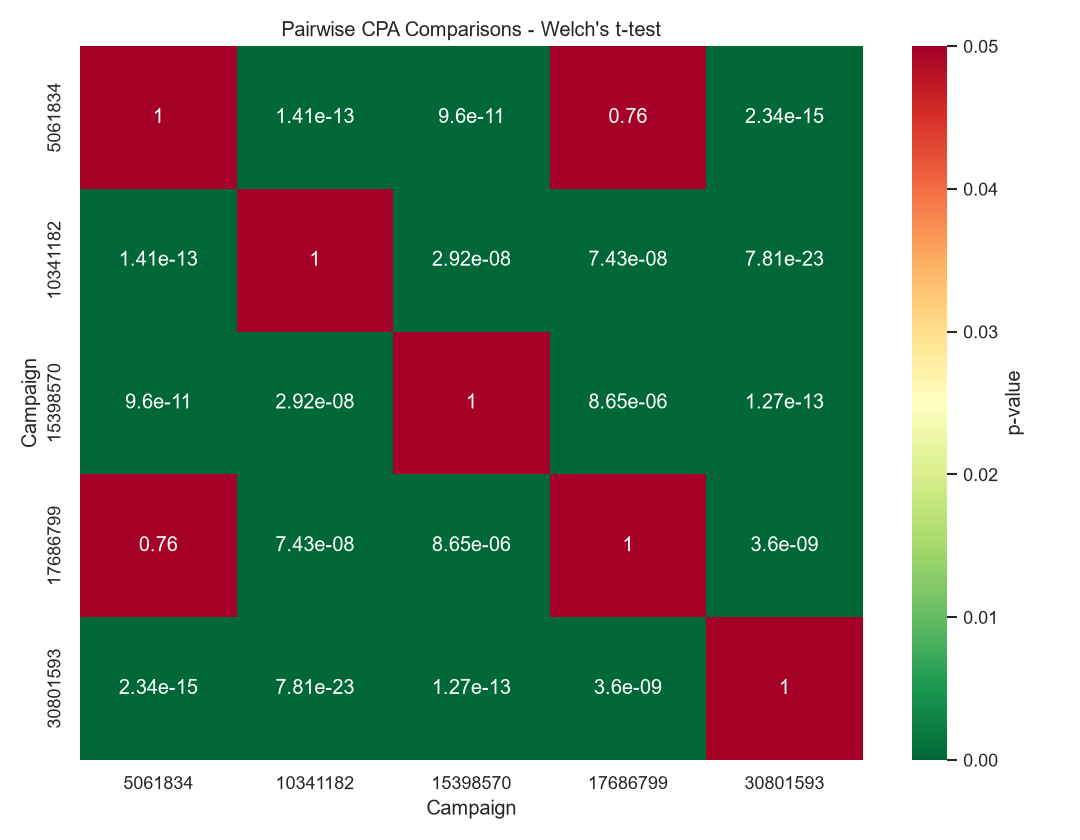
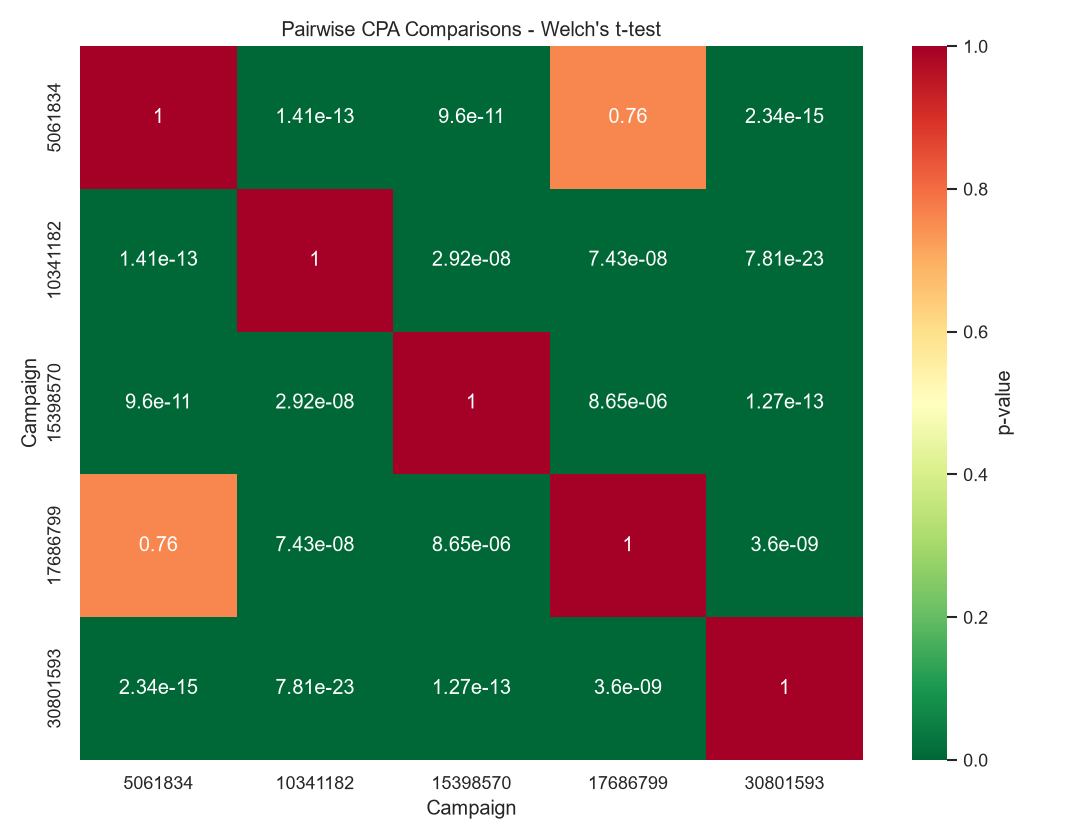
Refine statistical analysis and update lab documentation

diff --git a/lab_proof.md b/lab_proof.md
@@ -8,7 +8,7 @@ Run `lab_statistical_analysis_STUDENT.ipynb` from top to bottom. The notebook lo
 - **Groups:** Five anonymised campaign IDs; 31 daily observations for four campaigns and 30 for one (155 daily observations total).
 - **Metrics:** CPA, click-through rate and conversion rate; campaign totals and daily distributions.
 - **Tests:** Pairwise Welch t-tests and Cohen's d for daily CPA and conversion rate; Fisher's exact tests for converted/non-converted clicks; Bonferroni and Benjamini–Hochberg (BH-FDR) corrections; simulated power and bootstrap 95% confidence intervals.
-- **Decision output:** Provisional CPA-based allocation of $500,000, capped at 35% per campaign. See `outputs/executive_memo.md`.
+- **Decision output:** Provisional $500,000 allocation based on CPA rankings, prioritising lower observed CPA, with a minimum of 5% and maximum of 35% per campaign. ROAS could not be included because revenue is unavailable. See `outputs/executive_memo.md`.
 
 ## Evidence and findings
 - **Pairwise CPA:** 9 of 10 comparisons significant before and after both corrections.
@@ -18,6 +18,11 @@ Run `lab_statistical_analysis_STUDENT.ipynb` from top to bottom. The notebook lo
 - **Highest observed conversion rate:** `10341182` (23.64%); **lowest:** `17686799` (5.17%).
 - **Lowest observed mean daily CPA:** `30801593` (~0.0012 in anonymised cost units).
 - **Power simulation:** Under the notebook's assumed 15% daily CPA standard deviation, 31 days are sufficient for simulated 15–20% differences at 80% power, but not for 5–10% differences. This simulation is assumption-dependent.
+
+### Decision considerations
+- **Ranking fairness:** Campaigns 5061834 and 17686799 have no significant CPA difference (p ≈ 0.7597), despite receiving different rankings.
+- **Budget scalability:** Campaign 30801593 receives the highest allocation, but its ability to maintain the same CPA with increased spending is unverified.
+- **Practical significance:** Statistical significance does not necessarily imply financial importance. Actual costs, revenue and profitability must be considered.
 
 ## Illustrative budget allocation
 | Campaign | Allocation | USD |
@@ -43,4 +48,4 @@ Run `lab_statistical_analysis_STUDENT.ipynb` from top to bottom. The notebook lo
 The dataset uses anonymised costs and lacks revenue. Therefore, CPA cannot be interpreted as a verified dollar cost, and ROAS, profit and financial scalability cannot be established. The proposed budget is a **scenario for further testing**, not a validated investment decision. Results may also depend on attribution assumptions and dependence among observations.
 
 ## Reproduction check
-Before submission, run **Restart Kernel → Run All** in VS Code/Jupyter, verify there are no errors, and confirm all listed output files were regenerated. Remove any original instructor TODO code cells superseded by the completed cells.
+The notebook was executed from top to bottom in VS Code/Jupyter without errors. The generated charts, cleaned dataset and executive memo were verified in `outputs/`. The heatmap scale, CPA ranking logic and decision considerations were updated following feedback.

diff --git a/README.md b/README.md
@@ -4,7 +4,7 @@ Analysis of five anonymised marketing campaigns to assess CPA and conversion per
 
 ## How to run
 1. Open `lab_statistical_analysis_STUDENT.ipynb` in VS Code or Jupyter with a Python kernel.
-2. Ensure the source archive `criteo_attribution_dataset.tsv.gz` is present at the project root.
+2. Download the Criteo attribution dataset and place `criteo_attribution_dataset.tsv.gz` in the project root. The source archive is excluded from GitHub because of its size. The processed data is available in `outputs/marketing_data.csv`.
 3. Install any missing Python dependencies used by the notebook (including `numpy`, `pandas`, `scipy`, `statsmodels`, `matplotlib`, and `seaborn`).
 4. **Restart Kernel → Run All**. Check that the notebook completes without errors and regenerates the files in `outputs/`.
 
@@ -12,6 +12,9 @@ Analysis of five anonymised marketing campaigns to assess CPA and conversion per
 The notebook builds daily campaign metrics, visualises CPA and conversion-rate distributions, runs pairwise Welch t-tests with Cohen's d and Fisher's exact tests, applies Bonferroni and BH-FDR corrections, estimates simulated statistical power, and calculates bootstrap confidence intervals.
 
 **Key results:** 9/10 CPA comparisons and 9/10 conversion-rate comparisons were significant; all 9 remained significant after both multiple-comparison corrections. Campaign `30801593` had the lowest observed mean daily CPA, while `10341182` had the highest conversion rate (23.64%). See `lab_proof.md` for the evidence and `outputs/executive_memo.md` for the decision rationale.
+
+
+**Budget recommendation:** A provisional $500,000 monthly budget was allocated across five campaigns based on CPA rankings. Campaign `30801593` received the highest allocation (33.33%, approximately $166,667). All allocations fall within the required 5%–35% limits. ROAS was excluded because revenue data is unavailable.
 
 ## File map
 | Path | Purpose |

diff --git a/outputs/executive_memo.md b/outputs/executive_memo.md
@@ -54,7 +54,6 @@ is unavailable. Each campaign receives between 5% and 35%.
 - **Dataset limitations:** Advertising costs are anonymised, and revenue is unavailable. Actual dollar CPA, ROAS, profit and profit margin cannot be established.
 - **Multiple comparisons:** Bonferroni and BH-FDR corrections were applied separately to each family of ten comparisons.
 - **Confidence intervals:** Bootstrap intervals quantify uncertainty in average daily CPA under the sampling assumptions.
-- **Practical significance:** Statistically significant differences do not necessarily translate into higher profit.
 - **Ranking fairness:** Campaigns 5061834 and 17686799 have no statistically significant difference in daily CPA (p = 0.7597). Their different CPA rankings do not prove that one is better.
 - **Budget scalability:** Campaign 30801593 has the lowest observed CPA and receives the highest proposed allocation. However, we cannot confirm that it can absorb a larger budget while maintaining the same CPA.
 - **Practical significance:** Statistical significance does not automatically mean financial importance. Differences must be assessed against actual spending, revenue, profitability and business impact before reallocating budgets.
